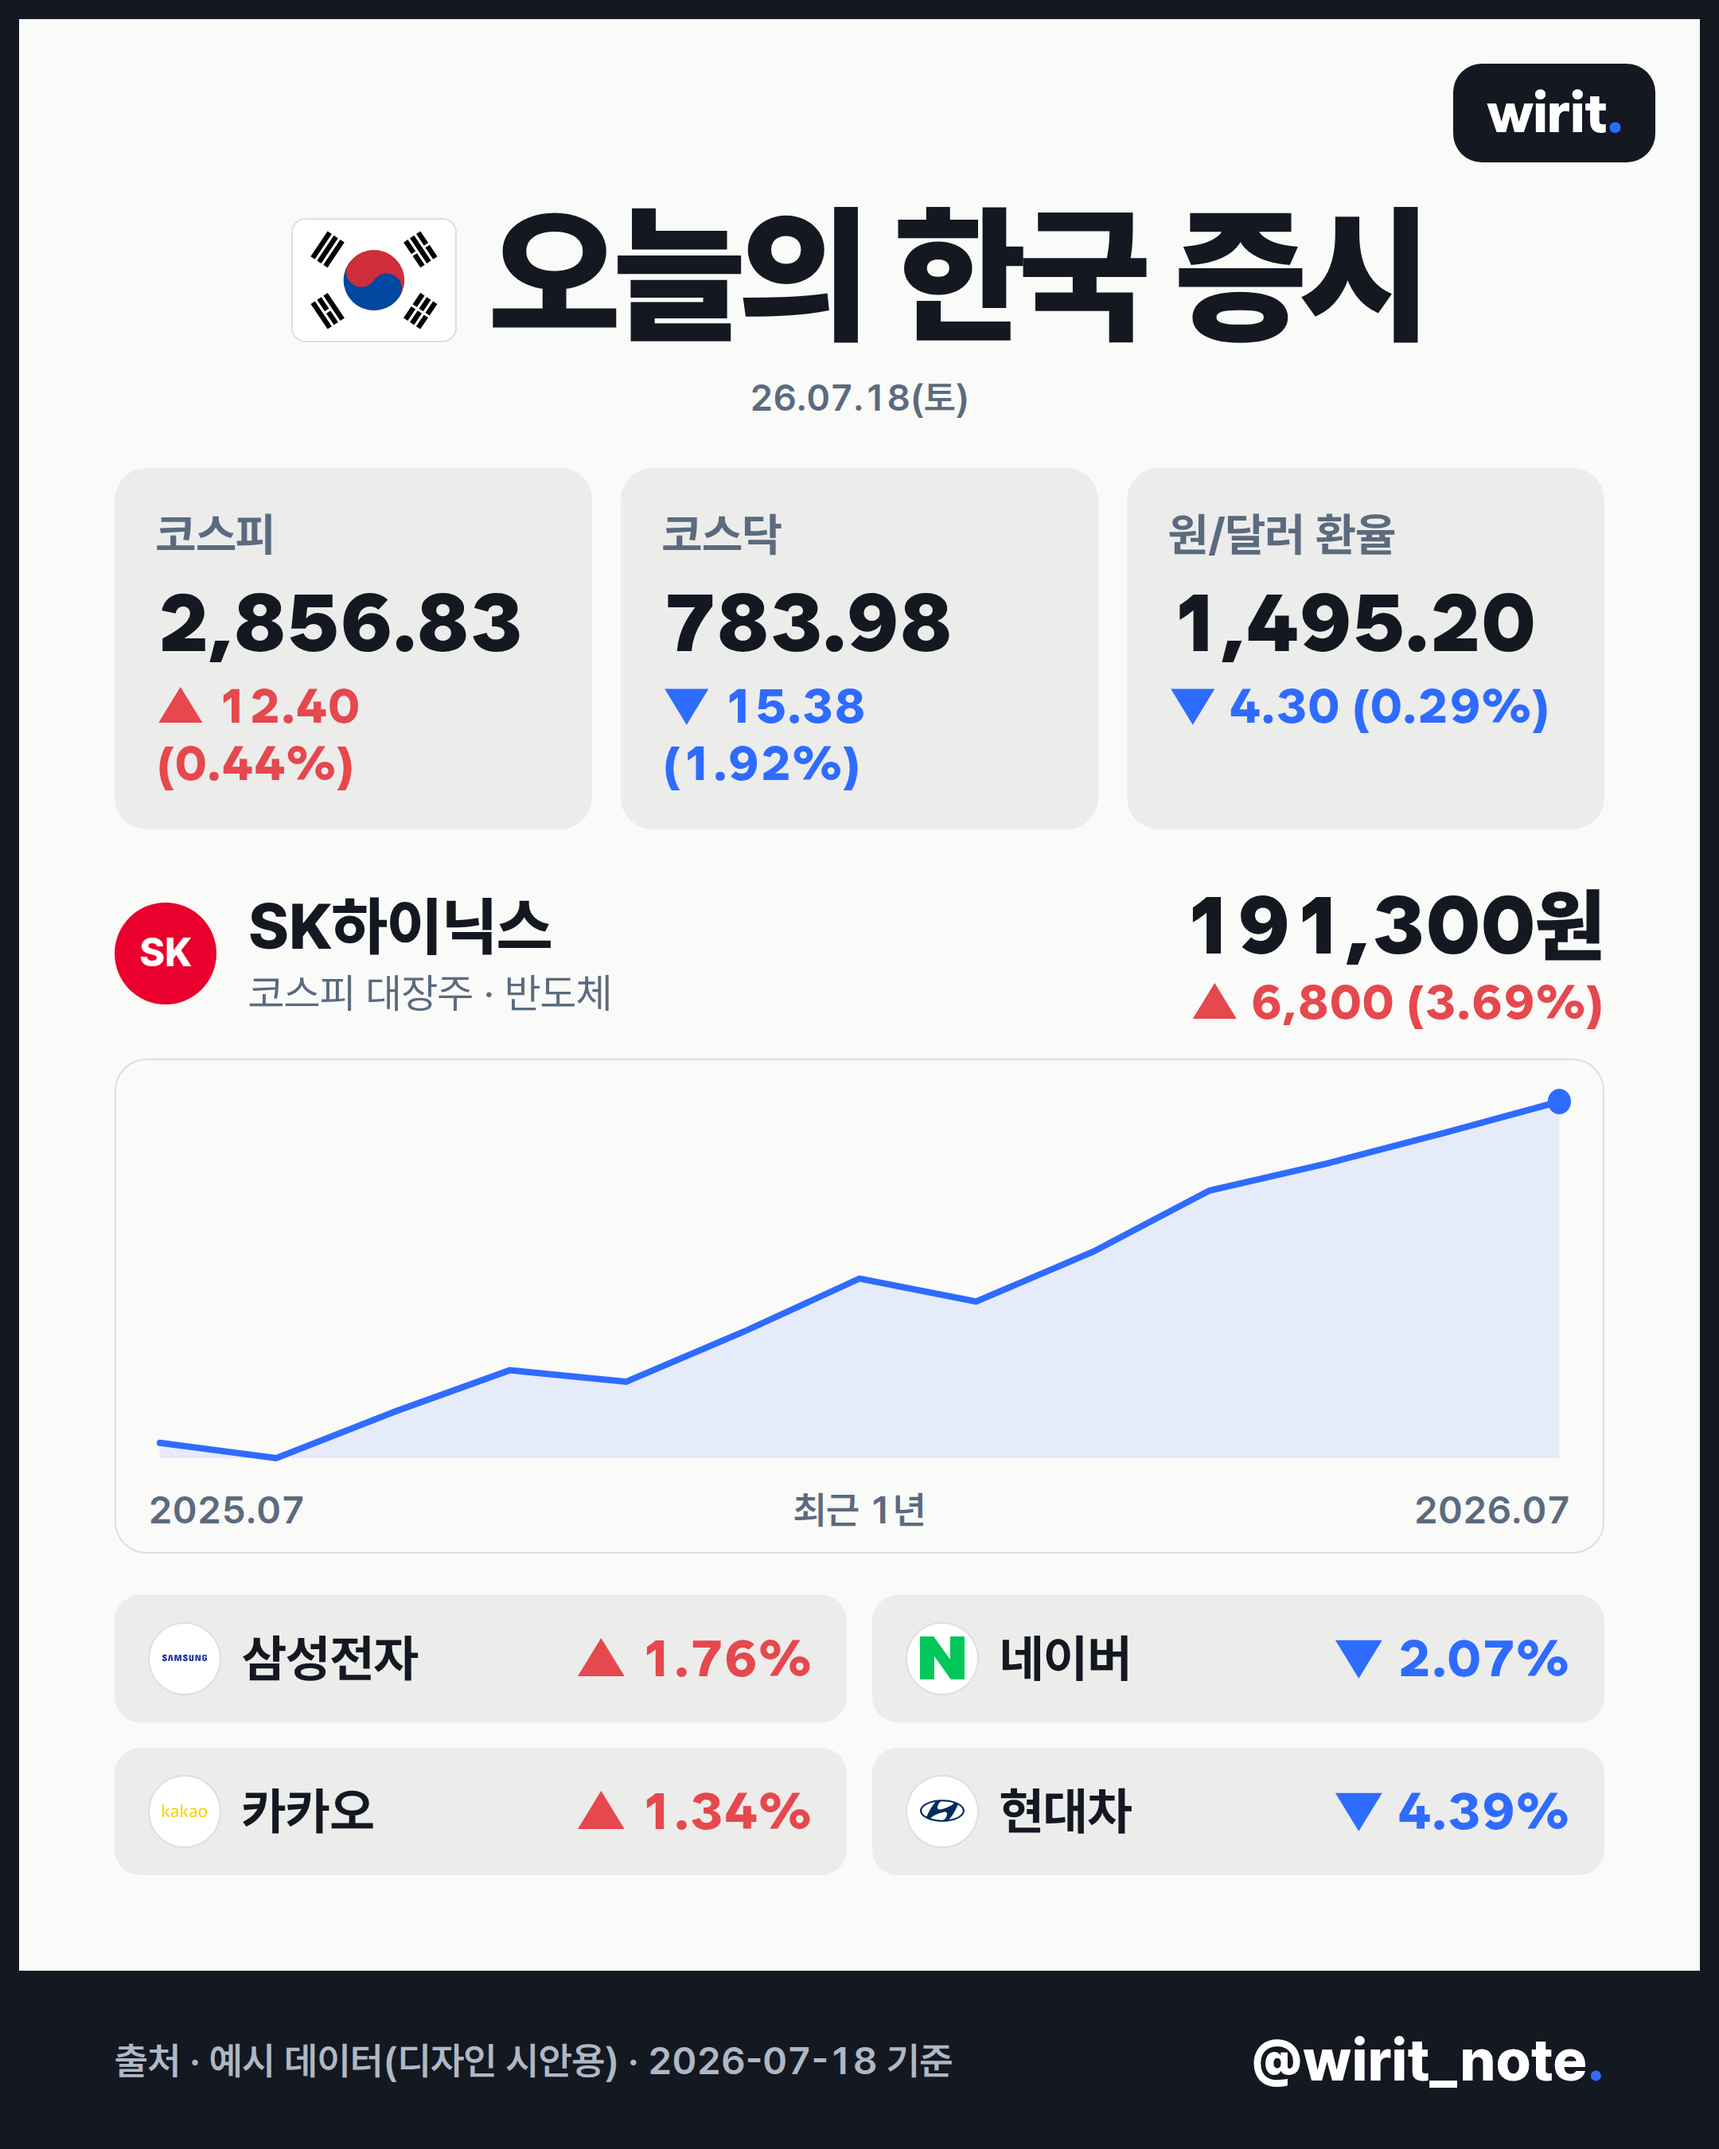
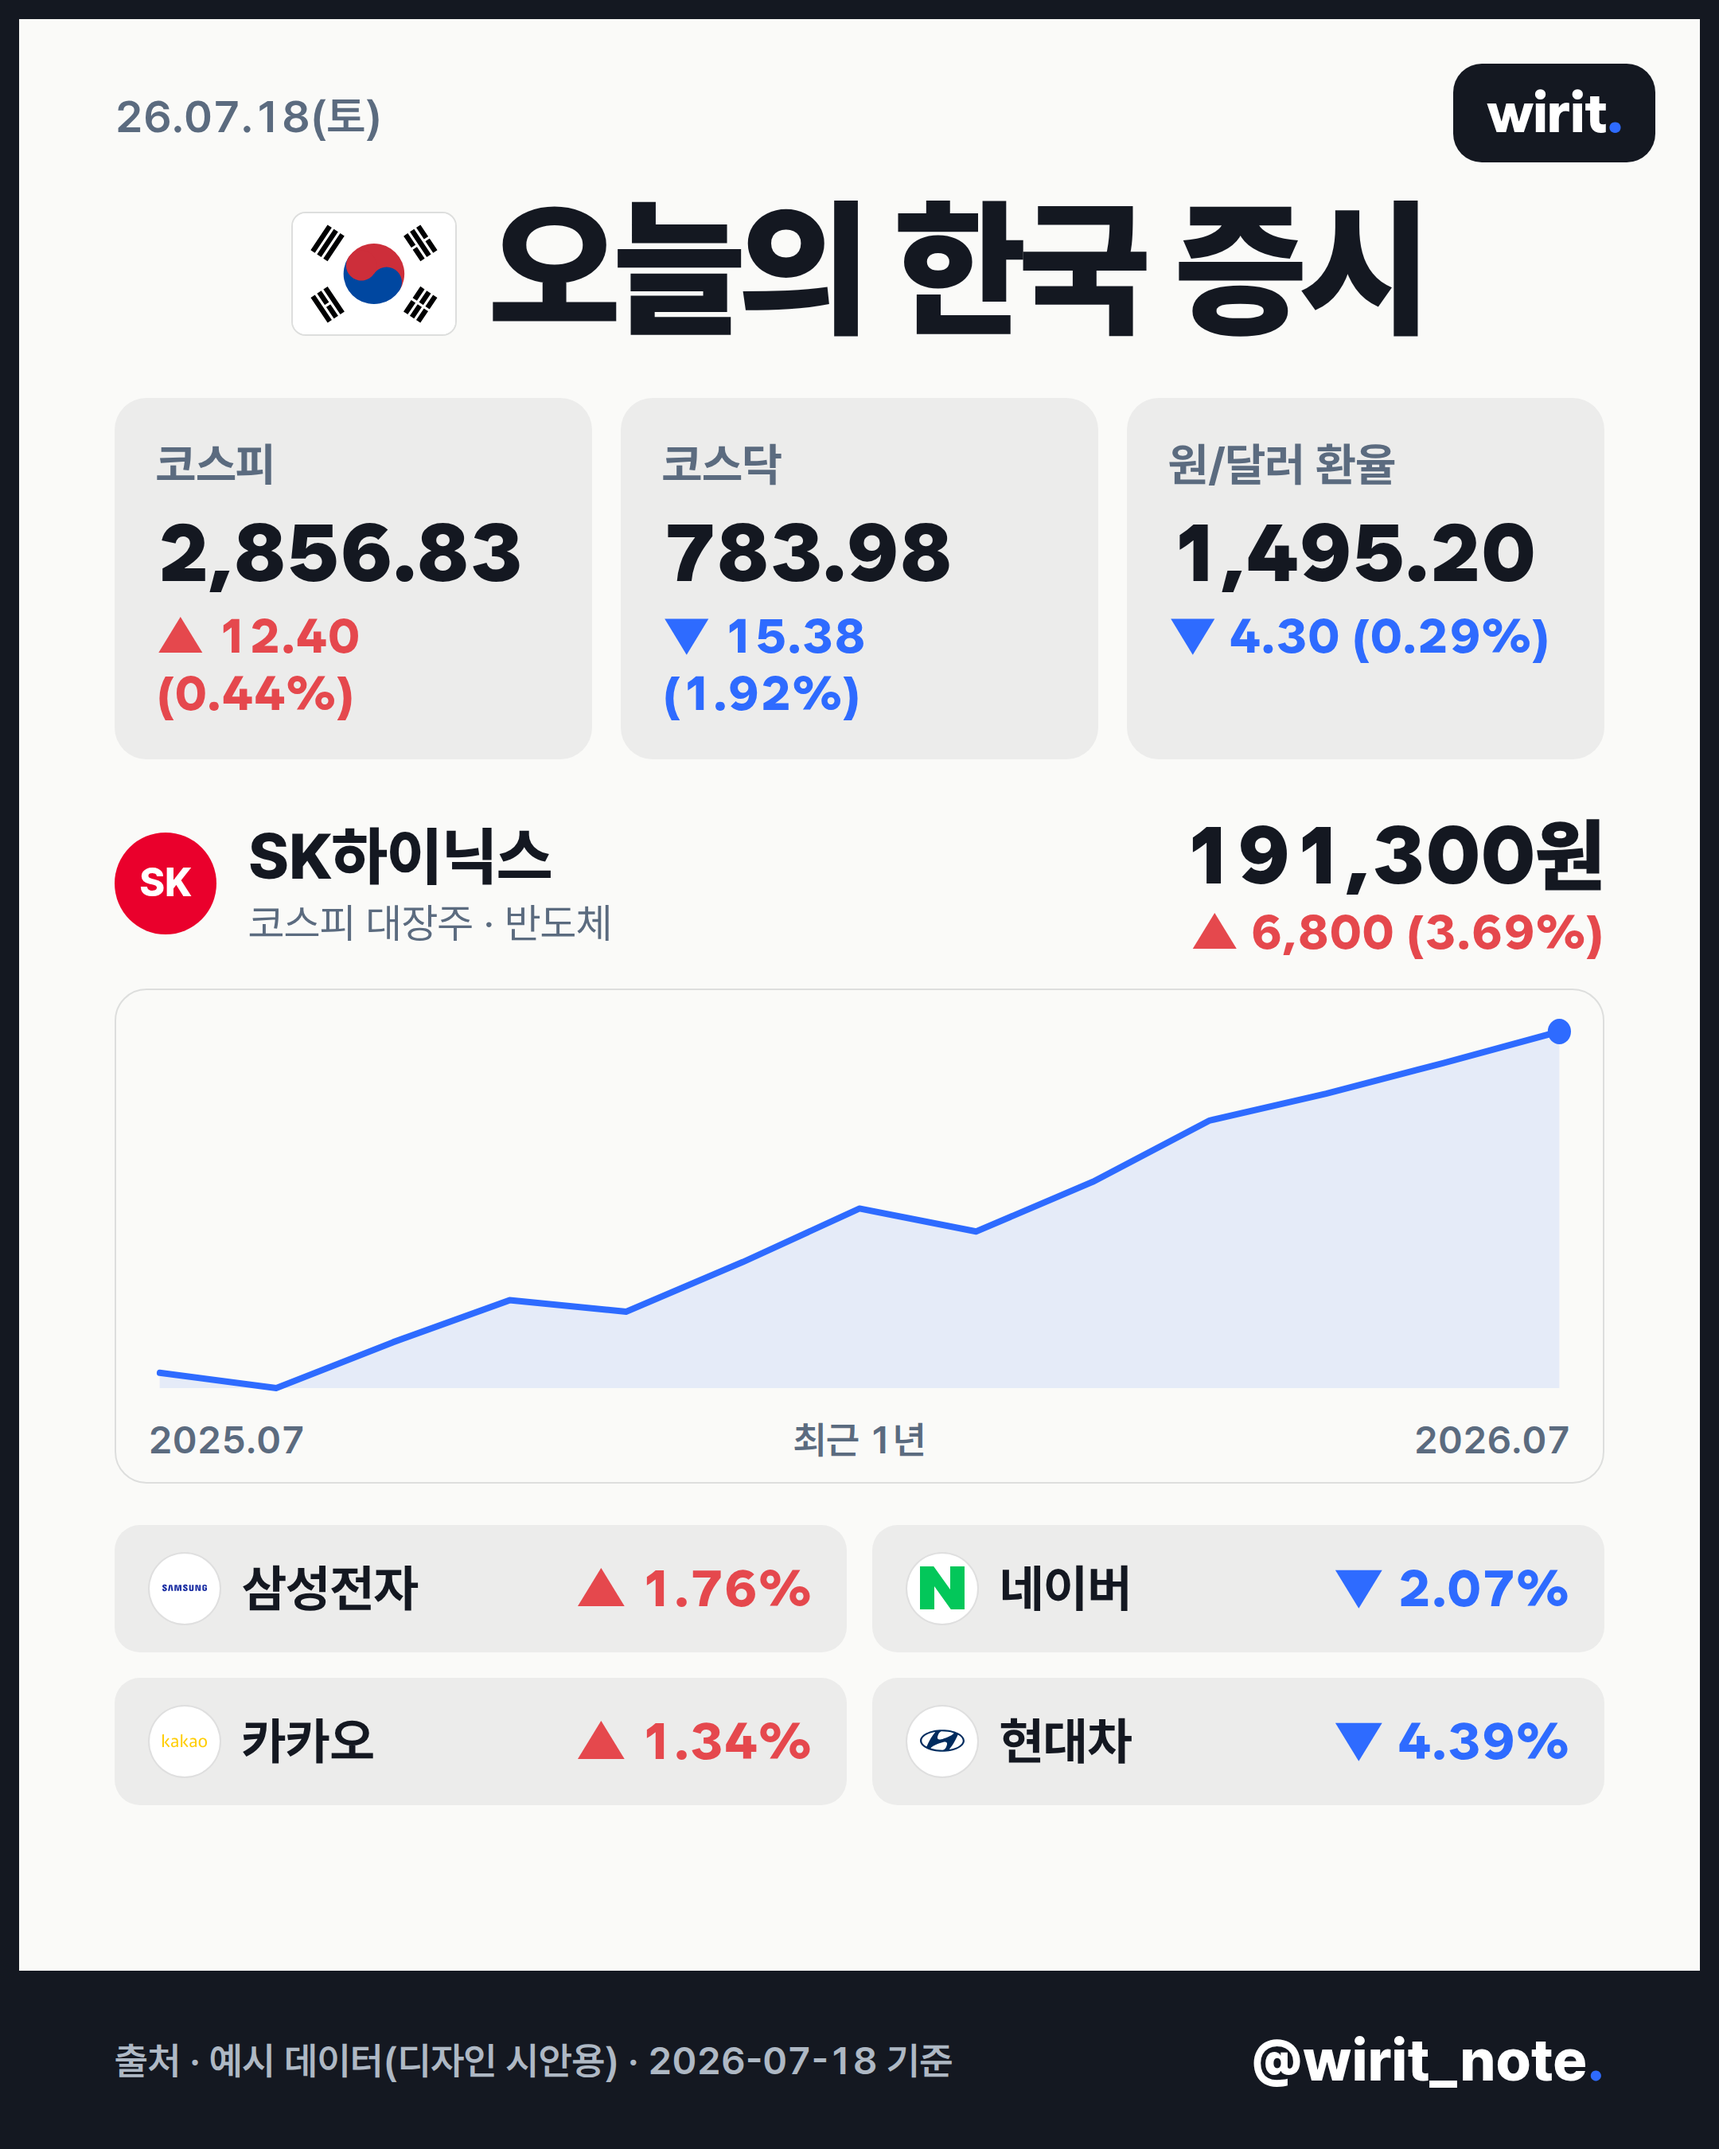
공용 상단 캡션 표준화: 날짜·부제를 좌상단 옅은 작은 글씨로(기본)
- base.css .wirit-topcap: 좌상단 로고 라인, 옅은 회색 28px (건설사 카드 방식)
- 증시: 날짜를 제목 아래→좌상단 캡션으로 이동
- 건설사: 기존 rt-topcap을 공용 .wirit-topcap으로 통합
- 미리보기 갱신

Claude-Session: https://claude.ai/code/session_011udkYLBNK9UFtPjocKSiQC

diff --git a/templates/ranking-table/template.html b/templates/ranking-table/template.html
@@ -26,18 +26,7 @@
         --mono: 44px;
       }
       /* 순위표는 표 공간 확보를 위해 제목 영역을 살짝 압축 */
-      /* 부제(캡션)를 상단 로고 라인에 왼쪽정렬로 배치 */
-      .rt-topcap {
-        display: flex;
-        align-items: center;
-        margin-top: -30px;
-        min-height: 62px;
-        padding-right: 200px; /* 우상단 로고 자리 */
-        color: var(--wirit-gray);
-        font-size: 32px;
-        font-weight: 600;
-      }
-      /* 제목: 2줄 가운데 정렬(data 줄바꿈 pre-line), 좌우 대칭 여백 */
+      /* 제목: 2줄 가운데 정렬(data 줄바꿈 pre-line), 좌우 대칭 여백. 부제는 공용 .wirit-topcap */
       .rt-head {
         padding: 0 140px;
         margin-top: 18px;
@@ -232,7 +221,7 @@
   </head>
   <body>
     <div class="wirit-card {{#if font}}font-{{font}}{{/if}} {{#if variant}}variant-{{variant}}{{else}}variant-a{{/if}} rt {{densityClass items}}">
-      <div class="rt-topcap">{{#if subtitle}}<span>{{subtitle}}</span>{{/if}}</div>
+      <div class="wirit-topcap">{{#if subtitle}}<span>{{subtitle}}</span>{{/if}}</div>
       <div class="rt-head">
         <h1 class="wirit-title">{{title}}</h1>
       </div>

diff --git a/templates/market-daily/template.html b/templates/market-daily/template.html
@@ -16,7 +16,7 @@
          날짜는 제목 우측 하단에 작게. */
       .md-titlewrap {
         position: relative;
-        margin-top: 50px;
+        margin-top: 14px;
         text-align: center;
       }
       .title-flag {
@@ -34,14 +34,6 @@
         margin-top: 0;
         font-size: 94px;
         white-space: nowrap;
-      }
-      .md-date {
-        display: block;
-        margin-top: 12px;
-        color: var(--wirit-gray);
-        font-size: 23px;
-        font-weight: 600;
-        font-variant-numeric: tabular-nums;
       }
 
       /* 지수 타일 */
@@ -220,9 +212,9 @@
   </head>
   <body>
     <div class="wirit-card md {{#if font}}font-{{font}}{{/if}}">
+      <div class="wirit-topcap">{{#if date}}<span>{{date}}</span>{{/if}}</div>
       <div class="md-titlewrap">
         <h1 class="wirit-title">{{#if flag}}<img class="title-flag" src="../_shared/flags/{{flag}}.svg" alt="" />{{/if}}{{title}}</h1>
-        {{#if date}}<span class="md-date">{{date}}</span>{{/if}}
       </div>
 
       <div class="idx">

diff --git a/templates/_shared/base.css b/templates/_shared/base.css
@@ -195,6 +195,19 @@ body {
   color: var(--wirit-cobalt);
 }
 
+/* 공용 상단 캡션: 날짜·부제를 좌상단 로고 라인에 옅고 작게 (모든 카드 기본) */
+.wirit-topcap {
+  display: flex;
+  align-items: center;
+  gap: 12px;
+  margin-top: -30px; /* 우상단 로고 뱃지 라인에 맞춤 */
+  min-height: 62px;
+  padding-right: 190px; /* 우상단 로고 자리 확보 */
+  color: var(--wirit-gray);
+  font-size: 28px;
+  font-weight: 600;
+}
+
 /* 브랜드 컬러 로고칩: 실제 로고가 없을 때 브랜드색 원 + 약칭(흰 글씨).
  * 배경색은 인라인 style="background:{brandColor}" 로 지정.
  * 폴백 순서: 이미지 로고 > 컬러칩(logoColor) > 회색 모노그램 */
